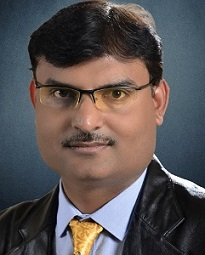
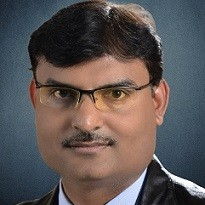
Implement code changes to enhance functionality and improve performance

diff --git a/index.html b/index.html
@@ -54,7 +54,12 @@
                         </ul>
                     </li>
                     <li class="nav-item">
-                        <a href="#speakers" class="nav-link">Speakers</a>
+                        <!-- Speakers and Chief Guest common ul -->
+                        <a href="#" class="nav-link has-dropdown">Speakers</a>
+                        <ul class="dropdown-menu">
+                            <li><a href="#chief-guest" class="dropdown-link">Chief Guest</a></li>
+                            <li><a href="#speakers" class="dropdown-link">Invited Speakers</a></li>
+                        </ul>
                     </li>
                     <li class="nav-item">
                         <a href="#themes" class="nav-link">Call for Abstracts</a>
@@ -326,7 +331,66 @@
                 </div>
             </div>
         </div>
+    </section> <!-- Chief Guest Section -->
+    <section id="chief-guest" class="section bg-light">
+        <div class="container">
+            <h2 class="section-title">Chief Guest</h2>
+            <div class="chief-guest-profile">
+                <div class="chief-guest-header">
+                    <img src="V-K-Saraswat.jpg" alt="Dr. Vijay Kumar Saraswat" class="committee-photo">
+                    <div class="chief-guest-info">
+                        <h3>Dr. Vijay Kumar Saraswat</h3>
+                        <p class="affiliation">Member, NITI Aayog, Government of India</p>
+                    </div>
+                </div>
+                <div class="chief-guest-bio">
+                    <p>
+                        Dr. Vijay Kumar Saraswat is a highly esteemed scientist and Member of NITI Aayog, renowned for
+                        his
+                        extensive experience in defense research encompassing both fundamental and applied sciences.
+                        Having
+                        served as the Secretary of the Defense Research and Development Organization (DRDO), he has made
+                        remarkable contributions to the indigenous development of missiles like Prithvi, Dhanush, Prahar
+                        and
+                        Agni-5 as well as the two-tiered Ballistic Missile Defence system. Dr. Saraswat played a pivotal
+                        role in establishing infrastructure to support the Nuclear Doctrine, developing cyber security
+                        technologies, and enhancing the nation’s defense capabilities against ballistic missile threats.
+
+
+                        Furthermore, he has been actively involved in the development of alternative energy systems,
+                        such as clean coal technologies, concentrated solar power systems and bioenergy, hydrogen based
+                        economies. He has been pursuing major initiatives in the Sustainable and Resilient
+                        transportation system viz. E-vehicles, FCV, Hybrid Vehicles and Hydrogen powered long haul
+                        transport system.
+
+                        Dr. Saraswat has also made significant contributions to the advancement of technology, including
+                        the development of silicon photonics, the configuration of the M-Processor for ICT applications
+                        and the roadmap for the Indian Railway Research Institute. </p>
+                    <p>
+                        As a Member of NITI Aayog, Dr. Saraswat has initiated the “Methanol Economy” program, aiming to
+                        utilize methanol for transportation, energy generation and chemical production. Additionally, he
+                        has
+                        chaired committees on technical textiles and body armor, contributing to the futuristic growth
+                        of
+                        these sectors in India. Dr. Saraswat’s outstanding achievements have been recognized through
+                        numerous awards, including the Padma Shri and Padma Bhushan, as well as honorary doctorates from
+                        over 27 universities.
+
+                        Distinguished Professor at IIT (Hyderabad) & IIT (Roorkee). Recently, he was elected as a Fellow
+                        of
+                        “Indian National Academy of Sciences”. Awarded Fellow of Eminence by World Academy of Higher
+                        Education and Development W-Ahead on World Teachers Day-2024. Dr. Saraswat has worked in the
+                        basic
+                        and applied sciences for over 40 years and has made significant contributions to the development
+                        of
+                        Indigenous Missiles
+                    </p>
+
+                </div>
+            </div>
+        </div>
     </section>
+
     <!-- Speakers Section -->
     <section id="speakers" class="section bg-light">
         <div class="container">
@@ -439,10 +503,10 @@
                         <img src="Nikhil-Dhawan.jpg" alt="Dr. Nikhil Dhawan" class="committee-photo">
                         <h4>Dr. Nikhil Dhawan</h4>
                         <!-- <p class="role">Distinguished Speaker</p> -->
-                        <p class="affiliation">Associate Professor, IIT Roorkee
+                        <p class="affiliation">Professor,Department of Metallurgical and Materials Engg. , IIT Roorkee
                         </p>
                     </div>
-                    
+
                 </div>
             </div>
 
@@ -761,14 +825,14 @@
                 </div>
             </div>
 
-            <!-- Sponsors Section
+            <!-- Sponsors Section -->
             <div class="sponsors-section"></div>
-            <h3 class="sponsor-category-title">Sponsors (TBA)</h3>
+            <h3 class="sponsor-category-title">Sponsors</h3>
             <div class="sponsors-grid">
-                <img src="placeholder-sponsor-logo.png" alt="Sponsor 1" class="sponsor-logo">
-                <img src="placeholder-sponsor-logo.png" alt="Sponsor 2" class="sponsor-logo">
-                <img src="placeholder-sponsor-logo.png" alt="Sponsor 3" class="sponsor-logo">
-            </div> -->
+                <img src="PolyProtic.jpg" alt="PolyProtic" class="sponsor-logo">
+                <!-- <img src="placeholder-sponsor-logo.png" alt="Sponsor 2" class="sponsor-logo">
+                <img src="placeholder-sponsor-logo.png" alt="Sponsor 3" class="sponsor-logo"> -->
+            </div>
         </div>
 
         <h3 class="section-title">Become a Sponsor</h3>
@@ -887,7 +951,8 @@
                                     <img src="Dheeraj-Kumar.jpg" alt="Prof. Dheeraj Kumar" class="committee-photo">
                                     <h4>Prof. Dheeraj Kumar</h4>
                                     <p class="role">Co-Patron</p>
-                                    <p class="affiliation">Deputy Director, IIT(ISM) Dhanbad</p>
+                                    <p class="affiliation">Deputy Director, IIT(ISM) Dhanbad <br /> Project Director,
+                                        TEXMiN Foundation</p>
                                 </div>
                                 <div class="committee-card">
                                     <img src="Shravan-Kumar.jpg" alt="Prof. Shravan Kumar" class="committee-photo">
@@ -939,6 +1004,9 @@
                     <div class="accordion-content" id="core-committee-content">
                         <div class="advisory-list">
                             <div class="advisory-item">
+                                <strong>Prof. Shravan Kumar</strong> - FMME
+                            </div>
+                            <div class="advisory-item">
                                 <strong>Prof. Shatrughan Soren</strong> - FMME
                             </div>
                             <div class="advisory-item">
@@ -989,6 +1057,16 @@
                             <div class="advisory-item">
                                 <strong>Prof. Nitesh Kumar Sahu</strong> - FMME
                             </div>
+                            <!-- <div class="advisory-item">
+                                <strong>Mr. Suraj Prakash</strong> - TEXMiN
+                            </div>
+                            <div class="advisory-item">
+                                <strong>Mr. M. Danish</strong> - TEXMiN
+                            </div>
+                            <div class="advisory-item">
+                                <strong>Dr. Lailesh Kumar</strong> - TEXMiN
+                            </div> -->
+
                         </div>
                     </div>
                 </div>
@@ -1113,7 +1191,7 @@
                             <div class="advisory-item">
                                 <strong>Prof Somnath Chattopadhyaya</strong> - IIT(ISM) Dhanbad
                             </div>
-                            
+
                         </div>
                     </div>
                 </div>

diff --git a/styles.css b/styles.css
@@ -2185,7 +2185,7 @@ h1, h2, h3, h4, h5, h6 {
 
 .sponsors-grid {
     display: grid;
-    grid-template-columns: repeat(3, 1fr);
+    grid-template-columns: repeat(1, 1fr);
     gap: 2rem;
     margin-bottom: 3rem;
     justify-items: center;
@@ -3175,5 +3175,147 @@ h1, h2, h3, h4, h5, h6 {
     .image-title {
         font-size: 1rem;
         padding: 0.8rem 0.6rem 0.6rem;
+    }
+}
+
+/* Chief Guest Profile Styles */
+.chief-guest-profile {
+    background: white;
+    padding: 3rem;
+    border-radius: 20px;
+    box-shadow: 0 15px 40px rgba(0, 0, 0, 0.1);
+    border: 2px solid #e2e8f0;
+    transition: all 0.3s ease;
+    max-width: 1000px;
+    margin: 0 auto;
+}
+
+.chief-guest-profile:hover {
+    transform: translateY(-5px);
+    box-shadow: 0 20px 50px rgba(0, 0, 0, 0.15);
+}
+
+.chief-guest-header {
+    display: flex;
+    align-items: center;
+    gap: 2rem;
+    margin-bottom: 2rem;
+    padding-bottom: 2rem;
+    border-bottom: 2px solid #e2e8f0;
+}
+
+.chief-guest-header .committee-photo {
+    width: 150px;
+    height: 150px;
+    border-radius: 50%;
+    object-fit: cover;
+    border: 4px solid var(--accent-primary);
+    box-shadow: 0 8px 25px rgba(49, 130, 206, 0.3);
+    flex-shrink: 0;
+}
+
+.chief-guest-info h3 {
+    font-size: 2.2rem;
+    color: var(--text-accent);
+    margin-bottom: 0.5rem;
+    font-weight: 700;
+}
+
+.chief-guest-info .affiliation {
+    font-size: 1.1rem;
+    color: var(--accent-primary);
+    font-weight: 600;
+    margin: 0;
+}
+
+.chief-guest-bio {
+    color: #4a5568;
+    line-height: 1.8;
+}
+
+.chief-guest-bio p {
+    font-size: 1.05rem;
+    margin-bottom: 1.5rem;
+    text-align: justify;
+}
+
+.chief-guest-bio p:last-child {
+    margin-bottom: 0;
+}
+
+/* Dark mode styles for Chief Guest */
+[data-theme="dark"] .chief-guest-profile {
+    background: var(--card-bg);
+    border-color: var(--border-light);
+}
+
+[data-theme="dark"] .chief-guest-header {
+    border-bottom-color: var(--border-light);
+}
+
+[data-theme="dark"] .chief-guest-info h3 {
+    color: var(--text-accent);
+}
+
+[data-theme="dark"] .chief-guest-info .affiliation {
+    color: var(--accent-primary);
+}
+
+[data-theme="dark"] .chief-guest-bio {
+    color: var(--text-secondary);
+}
+
+[data-theme="dark"] .chief-guest-bio p {
+    color: var(--text-secondary);
+}
+
+/* Responsive styles for Chief Guest */
+@media (max-width: 768px) {
+    .chief-guest-profile {
+        padding: 2rem;
+    }
+    
+    .chief-guest-header {
+        flex-direction: column;
+        text-align: center;
+        gap: 1.5rem;
+    }
+    
+    .chief-guest-header .committee-photo {
+        width: 120px;
+        height: 120px;
+    }
+    
+    .chief-guest-info h3 {
+        font-size: 1.8rem;
+    }
+    
+    .chief-guest-info .affiliation {
+        font-size: 1rem;
+    }
+    
+    .chief-guest-bio p {
+        font-size: 1rem;
+        text-align: left;
+    }
+}
+
+@media (max-width: 480px) {
+    .chief-guest-profile {
+        padding: 1.5rem;
+        margin: 0 1rem;
+    }
+    
+    .chief-guest-header .committee-photo {
+        width: 100px;
+        height: 100px;
+    }
+    
+    .chief-guest-info h3 {
+        font-size: 1.6rem;
+    }
+    
+    .chief-guest-bio p {
+        font-size: 0.95rem;
     }
 }
